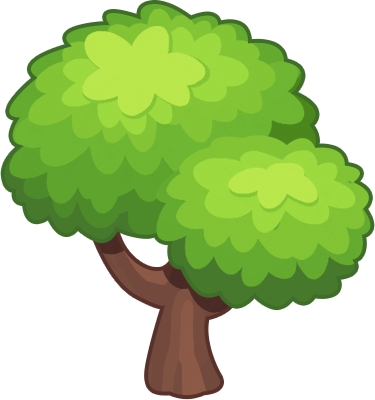
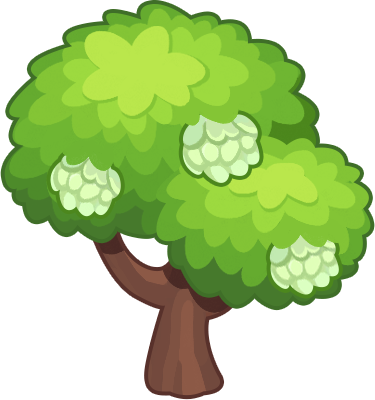
123

diff --git a/src/modules/assets/fruits.ts b/src/modules/assets/fruits.ts
@@ -542,4 +542,270 @@ export const assetFruitMap: Record<FruitId, AssetFruitData> = {
             },
         },
     },
+    [FruitId.Pomegranate]: {
+        name: "Pomegranate",
+        phaser: {
+            map: {
+                stages: {
+                    0: {
+                        mapData: {
+                            type: AssetMapType.Texture,
+                            texture: {
+                                assetKey: "fruit-pomegranate-1",
+                                assetUrl: `${PREFIX}/pomegranate/1.png`,
+                                packageId: 1,
+                                extraOffsets: {
+                                    x: 0,
+                                    y: -170,
+                                },
+                            },
+                        },
+                        bubbleStateConfig: {
+                            extraOffsets: {
+                                x: 0,
+                                y: -170,
+                            },
+                        },
+                    },
+                    1: {
+                        mapData: {
+                            type: AssetMapType.Texture,
+                            texture: {
+                                assetKey: "fruit-pomegranate-2",
+                                assetUrl: `${PREFIX}/pomegranate/2.png`,
+                                packageId: 1,
+                                extraOffsets: {
+                                    x: 0,
+                                    y: -170,
+                                },
+                            },
+                        },
+                        bubbleStateConfig: {
+                            extraOffsets: {
+                                x: 0,
+                                y: -170,
+                            },
+                        },
+                    },
+                    2: {
+                        mapData: {
+                            type: AssetMapType.Texture,
+                            texture: {
+                                assetKey: "fruit-pomegranate-3",
+                                assetUrl: `${PREFIX}/pomegranate/3.png`,
+                                packageId: 1,
+                                extraOffsets: {
+                                    x: 0,
+                                    y: -170,
+                                },
+                            },
+                        },
+                        bubbleStateConfig: {
+                            extraOffsets: {
+                                x: 0,
+                                y: -170,
+                            },
+                        },
+                    },
+                    3: {
+                        mapData: {
+                            type: AssetMapType.Texture,
+                            texture: {
+                                assetKey: "fruit-pomegranate-4",
+                                assetUrl: `${PREFIX}/pomegranate/4.png`,
+                                packageId: 1,
+                                extraOffsets: {
+                                    x: 0,
+                                    y: -170,
+                                },
+                            },
+                        },
+                        bubbleStateConfig: {
+                            extraOffsets: {
+                                x: 0,
+                                y: -170,
+                            },
+                        },
+                    },
+                    4: {
+                        mapData: {
+                            type: AssetMapType.Texture,
+                            texture: {
+                                assetKey: "fruit-pomegranate-5",
+                                assetUrl: `${PREFIX}/pomegranate/5.png`,
+                                packageId: 1,
+                                extraOffsets: {
+                                    x: 0,
+                                    y: -170,
+                                },
+                            },
+                        },
+                        bubbleStateConfig: {
+                            extraOffsets: {
+                                x: 0,
+                                y: -170,
+                            },
+                        },
+                    },
+                },
+            },
+        },
+        base: {
+            stages: {
+                0: {
+                    assetKey: "fruit-pomegranate-1",
+                    assetUrl: `${PREFIX}/pomegranate/1.png`,
+                },
+                1: {
+                    assetKey: "fruit-pomegranate-2",
+                    assetUrl: `${PREFIX}/pomegranate/2.png`,
+                },
+                2: {
+                    assetKey: "fruit-pomegranate-3",
+                    assetUrl: `${PREFIX}/pomegranate/3.png`,
+                },
+                3: {
+                    assetKey: "fruit-pomegranate-4",
+                    assetUrl: `${PREFIX}/pomegranate/4.png`,
+                },
+                4: {
+                    assetKey: "fruit-pomegranate-5",
+                    assetUrl: `${PREFIX}/pomegranate/5.png`,
+                },
+            },
+        },
+    },
+    [FruitId.Rambutan]: {
+        name: "Rambutan",
+        phaser: {
+            map: {
+                stages: {
+                    0: {
+                        mapData: {
+                            type: AssetMapType.Texture,
+                            texture: {
+                                assetKey: "fruit-rambutan-1",
+                                assetUrl: `${PREFIX}/rambutan/1.png`,
+                                packageId: 1,
+                                extraOffsets: {
+                                    x: 0,
+                                    y: -170,
+                                },
+                            },
+                        },
+                        bubbleStateConfig: {
+                            extraOffsets: {
+                                x: 0,
+                                y: -170,
+                            },
+                        },
+                    },
+                    1: {
+                        mapData: {
+                            type: AssetMapType.Texture,
+                            texture: {
+                                assetKey: "fruit-rambutan-2",
+                                assetUrl: `${PREFIX}/rambutan/2.png`,
+                                packageId: 1,
+                                extraOffsets: {
+                                    x: 0,
+                                    y: -170,
+                                },
+                            },
+                        },
+                        bubbleStateConfig: {
+                            extraOffsets: {
+                                x: 0,
+                                y: -170,
+                            },
+                        },
+                    },
+                    2: {
+                        mapData: {
+                            type: AssetMapType.Texture,
+                            texture: {
+                                assetKey: "fruit-rambutan-3",
+                                assetUrl: `${PREFIX}/rambutan/3.png`,
+                                packageId: 1,
+                                extraOffsets: {
+                                    x: 0,
+                                    y: -170,
+                                },
+                            },
+                        },
+                        bubbleStateConfig: {
+                            extraOffsets: {
+                                x: 0,
+                                y: -170,
+                            },
+                        },
+                    },
+                    3: {
+                        mapData: {
+                            type: AssetMapType.Texture,
+                            texture: {
+                                assetKey: "fruit-rambutan-4",
+                                assetUrl: `${PREFIX}/rambutan/4.png`,
+                                packageId: 1,
+                                extraOffsets: {
+                                    x: 0,
+                                    y: -170,
+                                },
+                            },
+                        },
+                        bubbleStateConfig: {
+                            extraOffsets: {
+                                x: 0,
+                                y: -170,
+                            },
+                        },
+                    },
+                    4: {
+                        mapData: {
+                            type: AssetMapType.Texture,
+                            texture: {
+                                assetKey: "fruit-rambutan-5",
+                                assetUrl: `${PREFIX}/rambutan/5.png`,
+                                packageId: 1,
+                                extraOffsets: {
+                                    x: 0,
+                                    y: -170,
+                                },
+                            },
+                        },
+                        bubbleStateConfig: {
+                            extraOffsets: {
+                                x: 0,
+                                y: -170,
+                            },
+                        },
+                    },
+                },
+            },
+        },
+        base: {
+            stages: {
+                0: {
+                    assetKey: "fruit-rambutan-1",
+                    assetUrl: `${PREFIX}/rambutan/1.png`,
+                },
+                1: {
+                    assetKey: "fruit-rambutan-2",
+                    assetUrl: `${PREFIX}/rambutan/2.png`,
+                },
+                2: {
+                    assetKey: "fruit-rambutan-3",
+                    assetUrl: `${PREFIX}/rambutan/3.png`,
+                },
+                3: {
+                    assetKey: "fruit-rambutan-4",
+                    assetUrl: `${PREFIX}/rambutan/4.png`,
+                },
+                4: {
+                    assetKey: "fruit-rambutan-5",
+                    assetUrl: `${PREFIX}/rambutan/5.png`,
+                },
+            },
+        },
+    }
 }

diff --git a/src/app/Modals/TransferNFTModal/index.tsx b/src/app/Modals/TransferNFTModal/index.tsx
@@ -24,6 +24,7 @@ import { useDisclosure } from "react-use-disclosure"
 import { AtSignIcon } from "lucide-react"
 import { useGraphQLQueryStaticSwr, useTransferNFTFormik } from "@/hooks"
 import { getNFTImage } from "@/app/utils"
+
 export const TransferNFTModal: FC = () => {
     const accounts = useAppSelector(
         (state) => state.sessionReducer.accounts.accounts
@@ -42,6 +43,9 @@ export const TransferNFTModal: FC = () => {
     )
     const collections = useAppSelector(
         (state) => state.sessionReducer.nftCollections
+    )
+    const collectionKey = useAppSelector(
+        (state) => state.sessionReducer.collectionKey
     )
     if (!account) {
         return null
@@ -62,13 +66,13 @@ export const TransferNFTModal: FC = () => {
                                     if (!formik.values.nft) return ""
                                     if (!swrStatic.data?.data) return ""
                                     return getNFTImage({
-                                        collectionKey: formik.values.nft?.collectionKey,
+                                        collectionKey,
                                         nft: formik.values.nft,
                                         collections,
                                         staticData: swrStatic.data?.data,
                                     })
                                 })()}
-                                className="w-12 h-12 rounded-md"
+                                className="w-12 h-12 rounded-md object-contain"
                             />
                             <div>
                                 {formik.values.nft?.name}

diff --git a/src/app/Modals/SignTransactionModal/index.tsx b/src/app/Modals/SignTransactionModal/index.tsx
@@ -27,6 +27,7 @@ import {
     useGraphQLQueryStaticSwr,
     useHoneycombSendTransactionsSwrMutation,
     useHoneycombSendTransactionSwrMutation,
+    useRouterWithSearchParams,
     useSendUmiSerializedTxSwrMutation,
     useTransferNFTSwrMutation,
     useTransferTokenSwrMutation,
@@ -44,6 +45,7 @@ import { Badge } from "@/components/ui/badge"
 import { useToast } from "@/hooks"
 import { useDisclosure } from "react-use-disclosure"
 import { getNFTImage } from "@/app/utils"
+import { pathConstants } from "@/constants"
 
 interface ProviderInfo {
   name: string;
@@ -79,6 +81,8 @@ export const SignTransactionModal: FC = () => {
     const { swr: swrStatic } = useSingletonHook<ReturnType<typeof useGraphQLQueryStaticSwr>>(
         GRAPHQL_QUERY_STATIC_SWR
     )
+
+    const router = useRouterWithSearchParams()
 
     const type = useAppSelector(
         (state) => state.modalReducer.signTransactionModal.type
@@ -203,6 +207,7 @@ export const SignTransactionModal: FC = () => {
                   collectionKey,
               })
                     txHash = txHashResponse
+                    router.push(pathConstants.collection)
                     break
                 }
                 case TransactionType.PurchaseSolanaNFTStarterBox: {

diff --git a/src/modules/blockchain/nft/transfer-nft.ts b/src/modules/blockchain/nft/transfer-nft.ts
@@ -5,7 +5,7 @@ import { defaultNetwork } from "../default"
 import { createUmi } from "@metaplex-foundation/umi-bundle-defaults"
 import { mplCore, transferV1 } from "@metaplex-foundation/mpl-core"
 import { keypairIdentity, publicKey } from "@metaplex-foundation/umi"
-import { NFTCollections } from "@/redux"
+import { StateNFTCollections } from "@/redux"
 import { TransferResult } from "../types"
 import base58 from "bs58"
 
@@ -16,7 +16,7 @@ export interface TransferNFTParams {
     privateKey: string;
     recipientAddress: string;
     collectionKey: string;
-    collections: NFTCollections;
+    collections: StateNFTCollections;
 }
 
 export const transferSolanaNFT = async ({
@@ -38,7 +38,7 @@ export const transferSolanaNFT = async ({
     const { signature } = await transferV1(umi, {
         asset: publicKey(nftAddress),
         newOwner: publicKey(recipientAddress),
-        collection: publicKey(collection.collectionAddress),
+        collection: publicKey(collection.address),
     }).sendAndConfirm(umi)
     return {
         txHash: base58.encode(signature)

diff --git a/src/app/utils/nft.ts b/src/app/utils/nft.ts
@@ -5,12 +5,12 @@ import {
     FruitInfoSchema,
     StaticData,
 } from "@/modules/entities"
-import { NFTCollections } from "@/redux"
+import { StateNFTCollections } from "@/redux"
 
 export interface GetNFTImageParams {
   collectionKey: string;
   nft: NFTData;
-  collections: NFTCollections;
+  collections: StateNFTCollections;
   staticData: StaticData;
 }
 

diff --git a/src/components/ui/dialog.tsx b/src/components/ui/dialog.tsx
@@ -61,7 +61,7 @@ const DialogHeader = ({
     <div
         className={cn(
             "flex flex-col space-y-1.5 text-center sm:text-left",
-            "uppercase mb-2",
+            "mb-2",
             className
         )}
         {...props}

diff --git a/src/modules/entities/gameplay/enums/ids.enum.ts b/src/modules/entities/gameplay/enums/ids.enum.ts
@@ -41,6 +41,8 @@ export enum FruitId {
     DragonFruit = "dragonFruit",
     //j97fruit
     Jackfruit = "jackfruit",
+    Pomegranate = "pomegranate",
+    Rambutan = "rambutan",
 }
 
 // Daily Reward Enum
